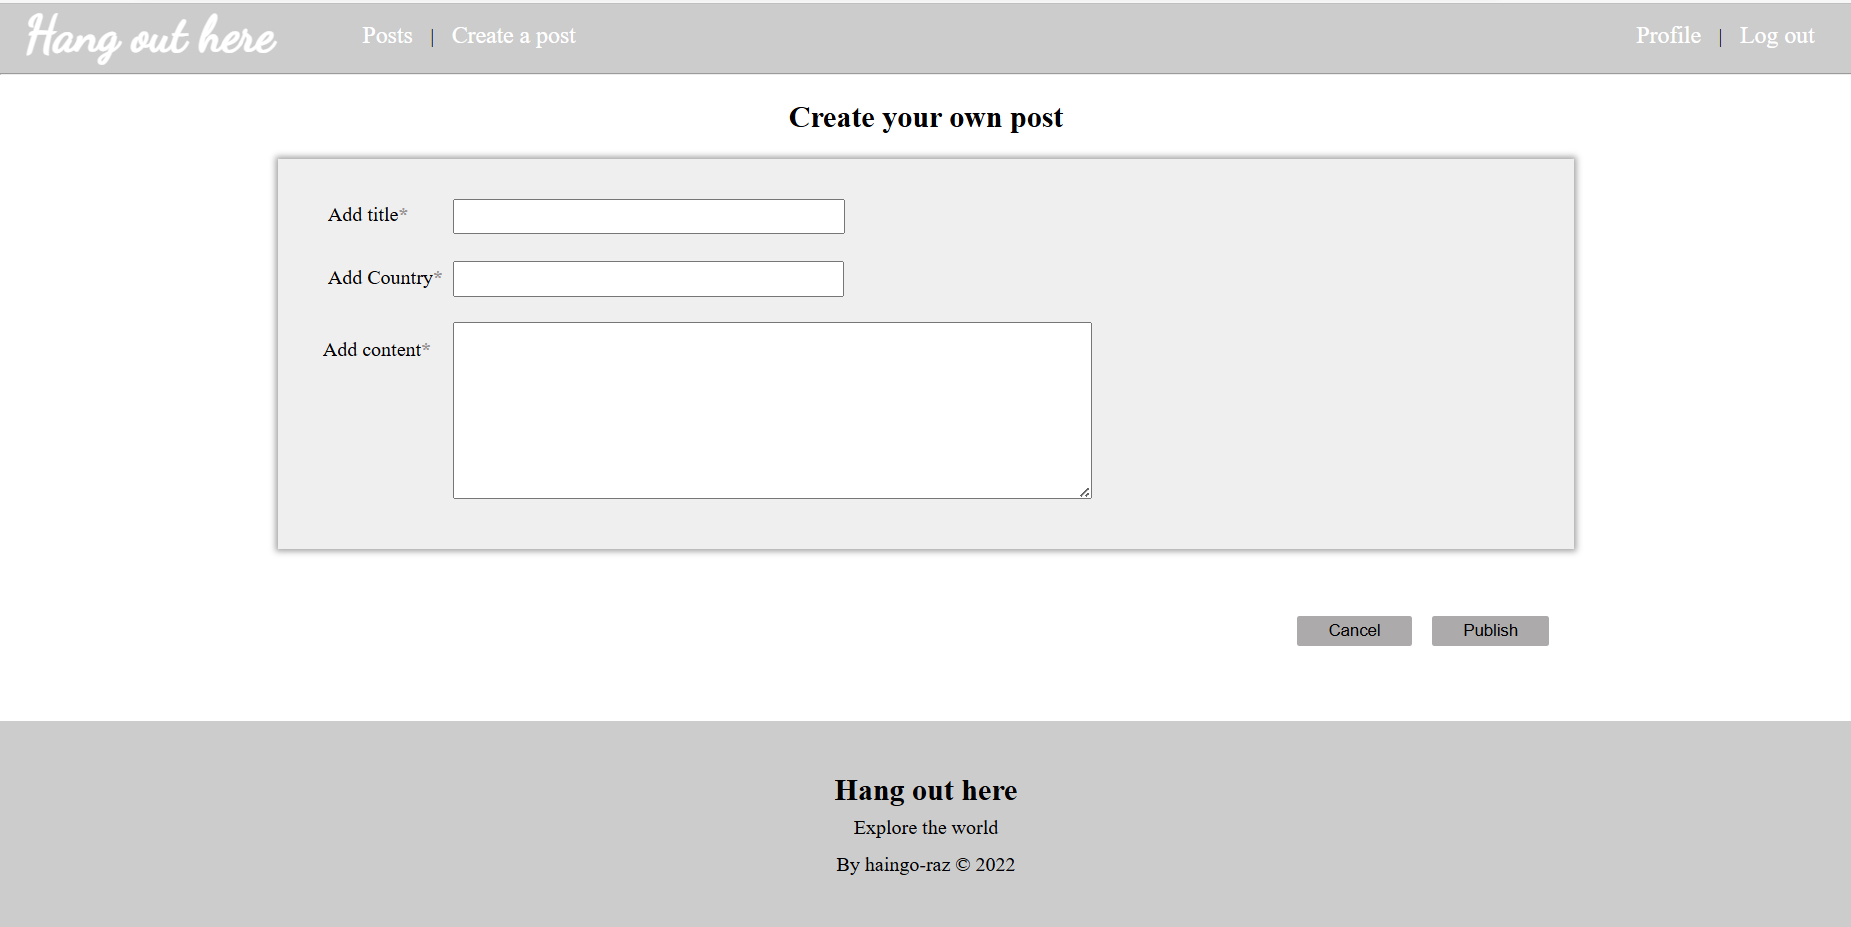
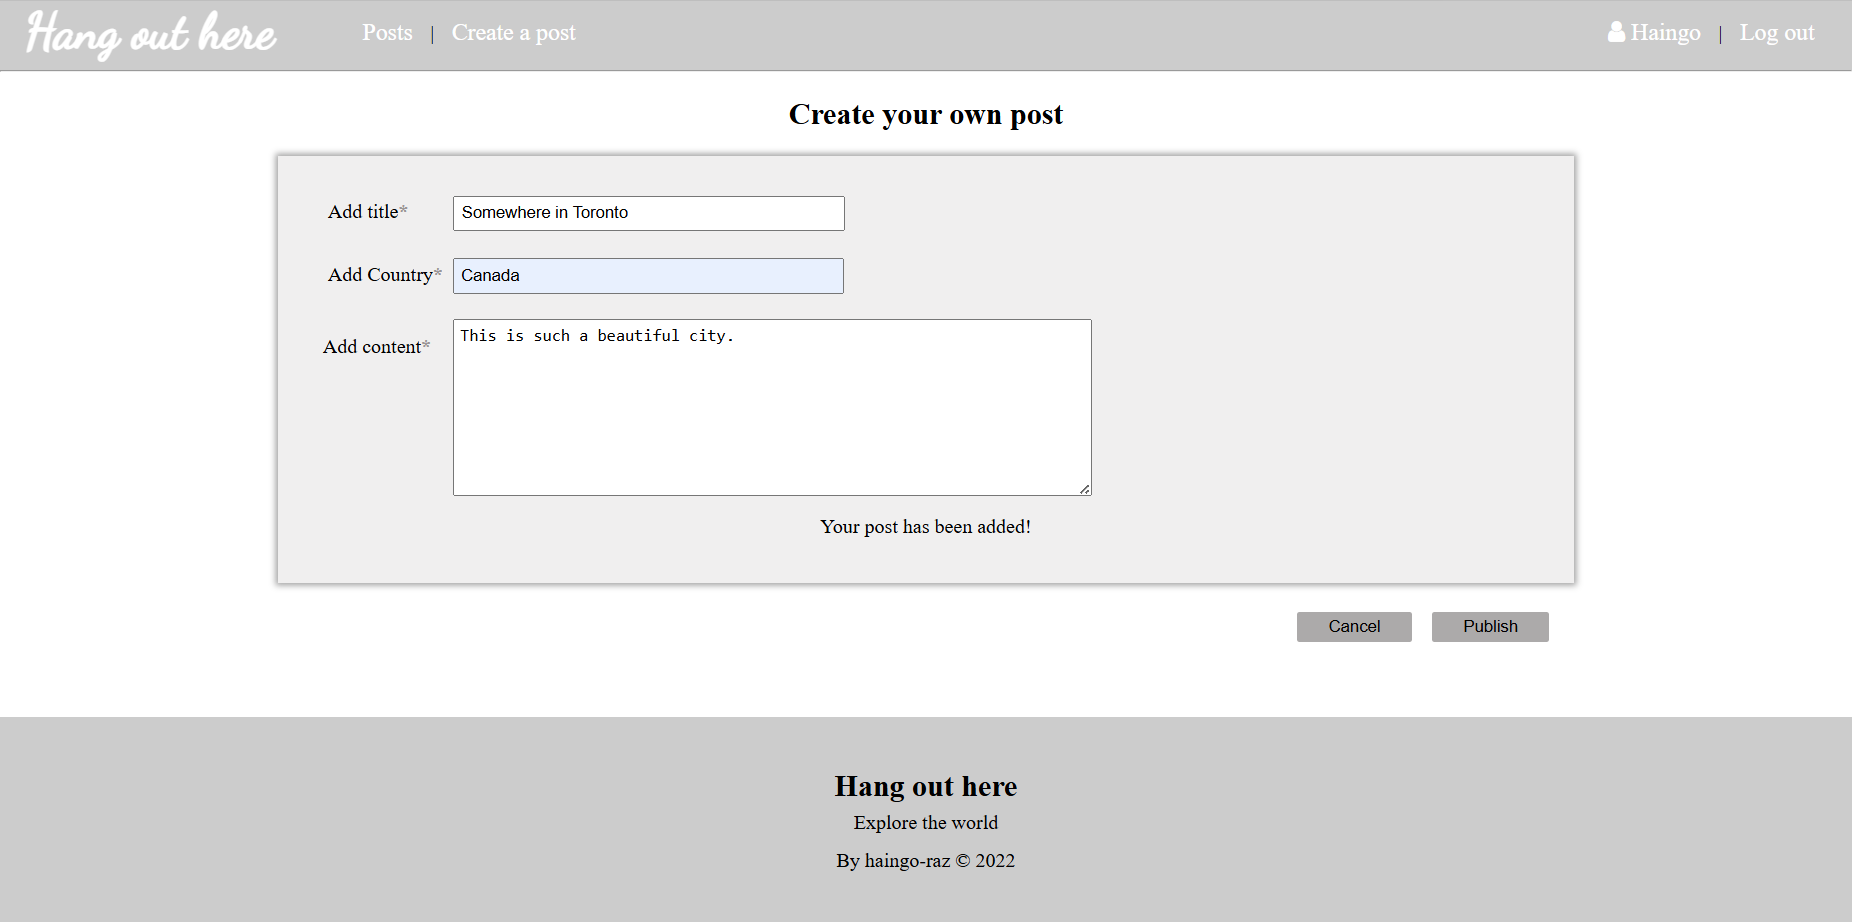
Blog // Update README, images and show logged in user.

diff --git a/public/createPost.html b/public/createPost.html
@@ -28,7 +28,7 @@
 
             <div class="nav-right">
                 <!--Display username of logged in user-->
-                <a id="profile" href="/profile">Profile</a><span> | </span>
+                <a href="/profile"><i class="fa fa-user" style="color: white;"></i>&nbsp;<span id="profile"></span></a><span> | </span>
                 <a onclick="logOut()">Log out</a>
             </div>
         </nav>

diff --git a/public/profile.html b/public/profile.html
@@ -28,7 +28,7 @@
 
             <div class="nav-right">
                 <!--Display username of logged in user-->
-                <a id="profile" href="/profile">Profile</a><span> | </span>
+                <a href="/profile"><i class="fa fa-user" style="color: white;"></i>&nbsp;<span id="profile"></span></a><span> | </span>
                 <a onclick="logOut()">Log out</a>
             </div>
         </nav>

diff --git a/public/js/display.js b/public/js/display.js
@@ -14,6 +14,12 @@ function displayLogin(){
     SignUpForm.style.display = "none";
 }
 
+function displayLoggedInUser() {
+    let loggedInUser = document.getElementById("profile");
+    loggedInUser.innerHTML = sessionStorage.loggedInUsername;
+}
+window.onload = displayLoggedInUser();
+
 //Load all the posts after the page loads
 window.onload = getPosts();
 function getPosts() {

diff --git a/public/posts.html b/public/posts.html
@@ -28,7 +28,7 @@
 
             <div class="nav-right">
                 
-                <a id="profile" href="/profile">Profile</a><span> | </span>
+                <a href="/profile"><i class="fa fa-user" style="color: white;"></i>&nbsp;<span id="profile"></span></a><span> | </span>
                 <a onclick="logOut()">Log out</a>
             </div>
         </nav>

diff --git a/public/css/posts.css b/public/css/posts.css
@@ -67,3 +67,9 @@
     display:flex;
     flex-direction: row-reverse;
 }
+
+.btn-container button{
+    padding: 5px 10px;
+    background: rgb(156, 23, 23);
+    color: white;
+}

diff --git a/README.md b/README.md
@@ -5,26 +5,26 @@
 - [UI](#ui)
 
 # About <a name="about"></a>
-A blog developed with Node.js whereby users can register, login, create a post and update their details.
+A blog created with Node.js where users can register, login, create or delete a post, and update their details.
 
 # Technology <a name="technology"></a>
 - HTML/CSS
 - Vanilla JS
-- NodeJS ( Express ) 
+- Node.js/Express
 - MySQL
 
 # How to run it on your computer? <a name="run"></a>
 
-## Prequequisites 
+## Prerequisites 
 - Install XAMPP or a similar tool to be able to run MySQL.
-- Install HeidiSQL, a graphical interface to manage MySQL databases or a similar tool.
+- Install HeidiSQL, a graphical interface to manage MySQL databases or a similar tool (Optional).
 - Install Node.js, which includes npm.
 
 ## Setting up the database 
 - Open XAMPP and start the MySQL module.
-- Open HeidiSQL and connect to the MySQL server by entering your chosen host, username, and password. In this project the default username 'host' is used and the password is empty.
+- Open HeidiSQL or a similar tool and connect to the MySQL server by entering your chosen host, username, and password. In this project, the default username 'host' is used and the password is empty.
 - Create a new database. I named mine "Coursework3" in this project.
-- Browse to the project folder and go to database_dump folder, and import posts.sql and users.sql in the created database to populate the database with dummy data.
+- Browse to the project folder and go to the database_dump folder, and import posts.sql and users.sql into the created database to populate the database with dummy data.
 
 ## Run the server 
 - Open a terminal or command prompt and navigate to the project folder.
@@ -47,8 +47,7 @@ A blog developed with Node.js whereby users can register, login, create a post a
 
 # Future work
 - Allow users to add a profile picture.
-- Allow users to edit their pasts posts.
-- Allow users to delete their pasts posts.
-- Allow users to upvote and downvote a post recommendation.
+- Allow users to edit their past posts.
+- Allow users to upvote and downvote a post.
 - Allow users to direct message another user.
-- Allow users to update their email or password, upong providing their current password.
+- Allow users to update their email or password upon providing their current password.
